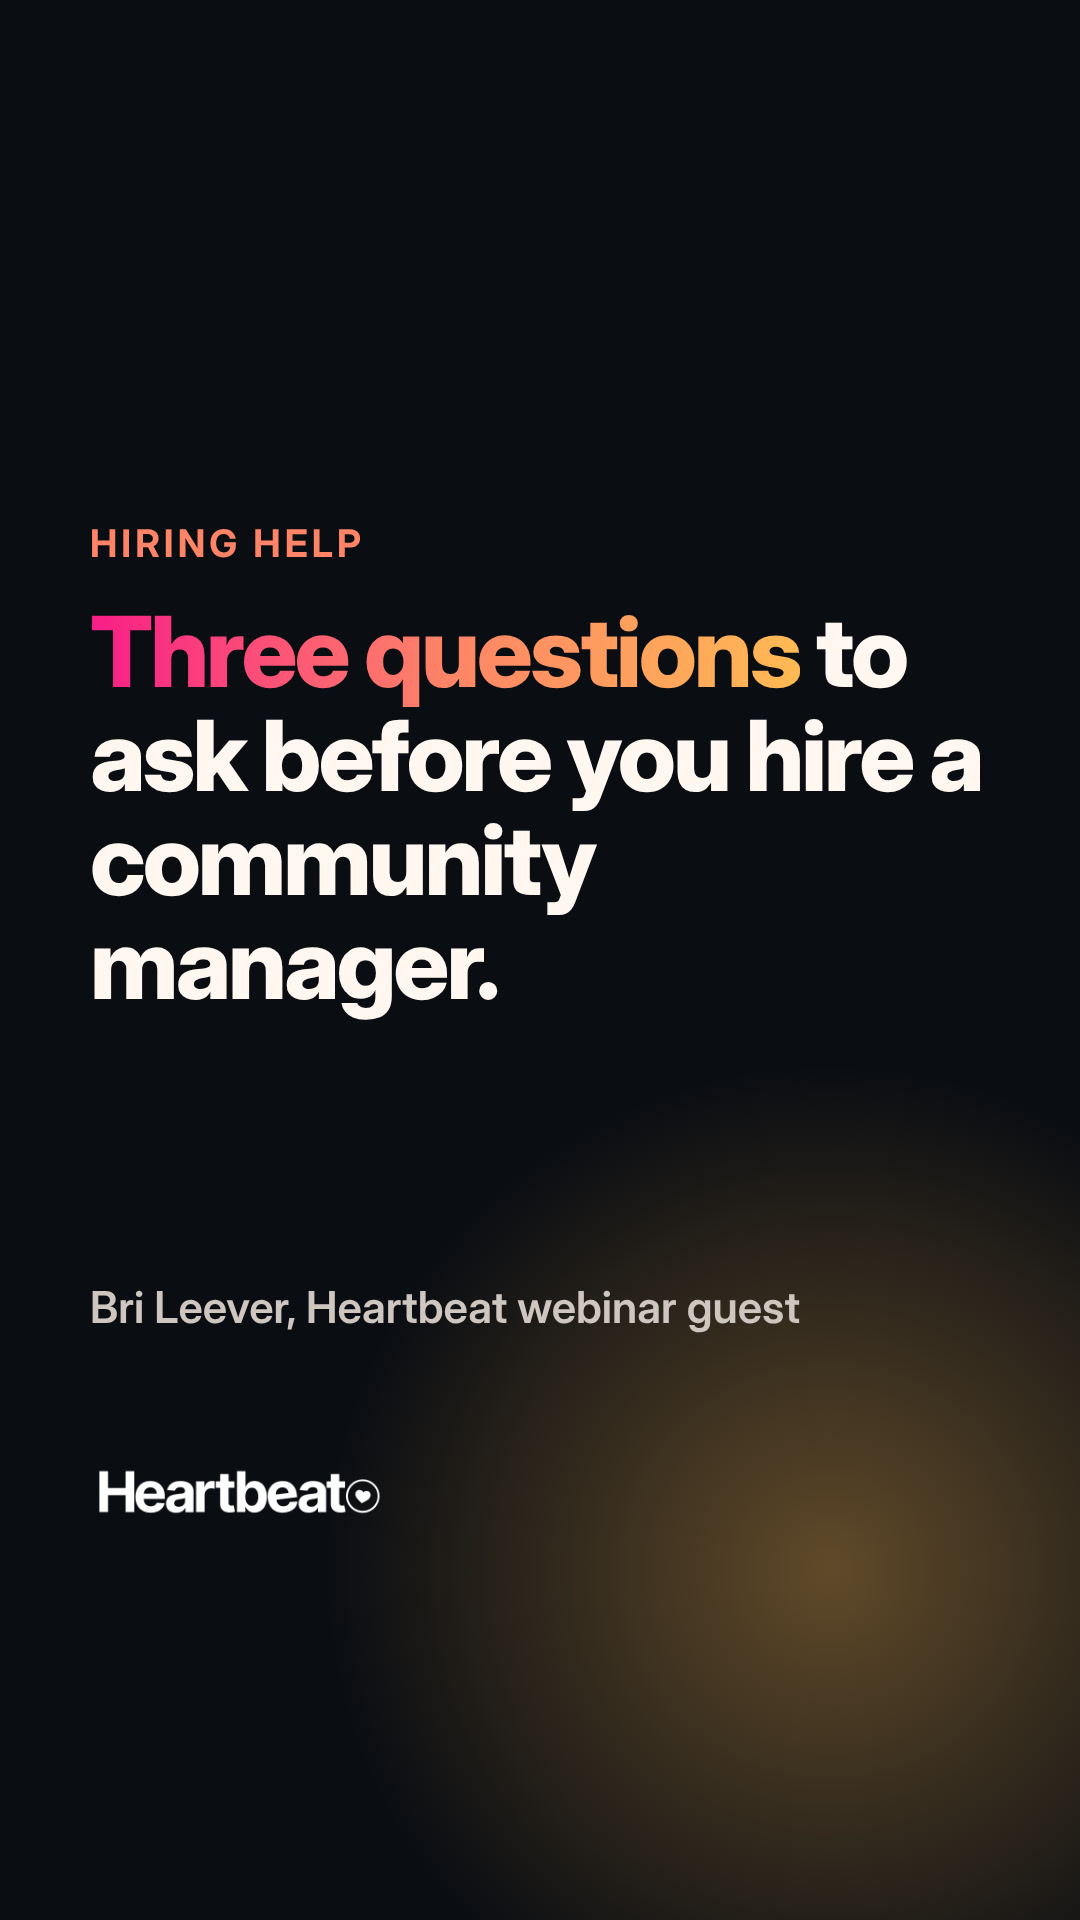
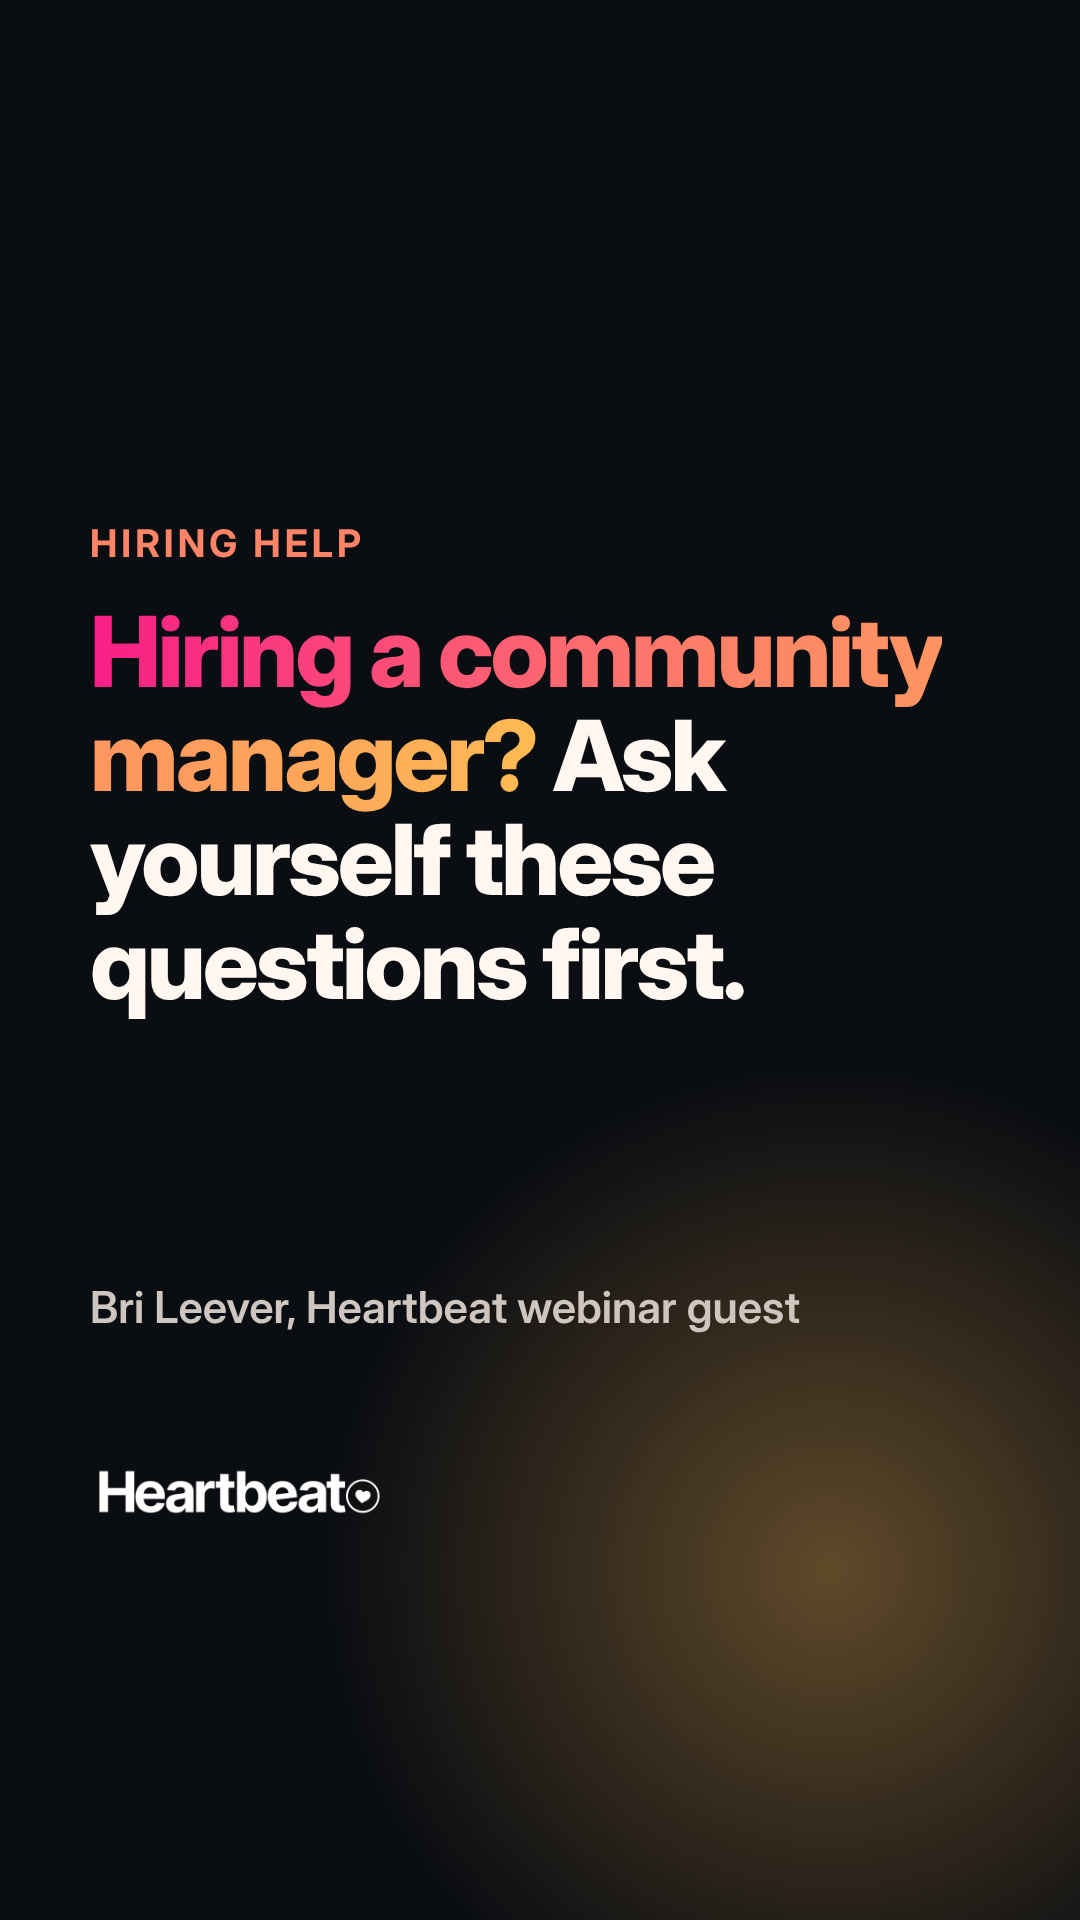
Update 2026-11-24 cover per Clay's edit

Changed region(s): [[0.0611, 0.3125, 0.9167, 0.5312]]

diff --git a/posts/2026-11-24-hire-community-manager/src/reel-cover.html b/posts/2026-11-24-hire-community-manager/src/reel-cover.html
@@ -9,7 +9,7 @@ body{margin:0;width:1080px;height:1920px;background:#0A0D12;color:#FFF7F0;font-f
 .w{position:absolute;left:90px;bottom:400px;height:56px}
 </style></head><body><div class="g"></div>
 <div class="k">Hiring help</div>
-<div class="t"><em>Three questions</em> to ask before you hire a community manager.</div>
+<div class="t"><em>Hiring a community manager?</em> Ask yourself these questions first.</div>
 <div class="s">Bri Leever, Heartbeat webinar guest</div>
 <img class="w" src="{{ROOT}}/brand/heartbeat-wordmark-white.png">
 </body></html>
